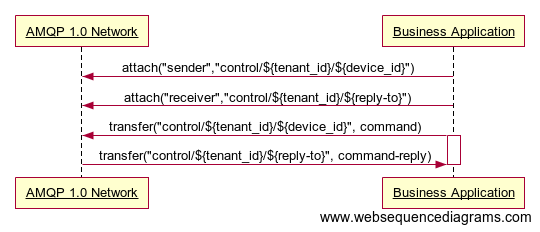
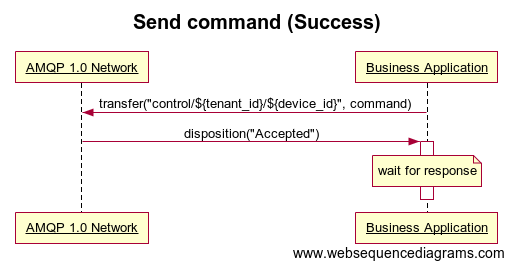
[#808] Specify notification commands as message exchange pattern.
Additionally, the handling of outcomes of a transfer is specified for
commands as well.

diff --git a/site/content/api/Command-And-Control-API.md b/site/content/api/Command-And-Control-API.md
@@ -3,12 +3,17 @@ title = "Command & Control API"
 weight = 415
 +++
 
-The *Command and Control* API is used by *Business Applications* to send commands to devices connected to Hono. Command messages can be used to
-execute operations on devices, e.g. updating a configuration property, installing a software component or activating an actuator.
+The *Command and Control* API is used by *Business Applications* to send **command** or **notification command** messages to devices connected to Hono. 
+
+Command messages can be used to execute operations on devices, e.g. updating a configuration property, installing a software component or activating an actuator.
+Commands are bidirectional, i.e. a device receiving a command is expected to send a response to it.
+
+Notification command messages are unidirectional and cannot be responded.
 <!--more-->
 
 {{% note %}}
 This API has been added in Hono 0.6. Previous versions do not support nor implement the Command & Control API.
+The notification commands will be added during the development of Hono 0.8.
 {{% /note %}}
 
 The Command & Control API is defined by means of AMQP 1.0 message exchanges, i.e. a client needs to connect to Hono using AMQP 1.0 in order to invoke operations of the API as described in the following sections. Throughout the remainder of this page we will simply use AMQP when referring to AMQP 1.0.
@@ -16,25 +21,111 @@ The Command & Control API is defined by means of AMQP 1.0 message exchanges, i.e
 There is also a description of Command & Control [at the conceptual level]({{< relref "/concepts/command-and-control.md" >}}) 
 and the [Getting Started]({{< ref "getting-started" >}}) guide contains a walk through example.
 
+# Preconditions
+## Preconditions for sending a command or notification command
+
+1. The *Business Application* has established an AMQP connection with the AMQP 1.0 Network.  
+2. The *Business Application* has established an AMQP link in role *sender* with the target address `control/${tenant_id}/${device_id}`, where `${device_id}` is the ID of the device to send messages to and `${tenant_id}` is the ID of the tenant that the device belongs to.
+
+**Link establishment**
+
+The following sequence diagram shows the necessary links that need to be established:
+
+![Send Command Preconditions](../command_control_send_preconditions.png)
+
+## Preconditions for receiving a command response
+
+*Command* messages (in contrast to *notification command* messages) need to be responded by the device. For this purpose,
+the *Business Application* needs to open a receiver link as precondition: 
+
+1. The *Business Application* has established an AMQP link in role *receiver* with the source address `control/${tenant_id}/${reply-id}`.
+This link is used by the *Business Application* to receive the response of the executed command. This link’s source address is also referred to as `the reply-to address` for the request messages. 
+2. The `${reply-id}` may be any arbitrary string chosen by the client.  
+
+To scope a response to the device the `${reply-id}` should consist of the device-id plus an arbitrary string to scope the command sender instance. If all responses shall be received just in the context of the tenant, the device-id has to be omitted.   
+
+**Link establishment**
+
+The following sequence diagram shows the necessary links that need to be established to enable sending back a response to the Business Application:
+
+![Send Command](../command_control_receive_preconditions.png)
+
+# Outcomes for sending a command or notification command
+Commands and notification commands that are forwarded by the AMQP 1.0 network to a protocol adapter need to be responded with following outcomes:
+
+| Processing in protocol adapter   | AMQP outcome                  |
+|----------------------------------|------------------------------ |
+| Bad command                      | Rejected ("hono:bad-request") |
+| Device not connected (anymore)   | Release                       | 
+| Command delivered                | Accepted                      | 
+
+For any outcome except for `Accepted` the *Business application* should immediately close the response receiver link again, 
+if it was scoped to exactly one command response. If the receiver link is scoped to the tenant, it usually should remain 
+open.
+
+
 # Operations
 
-The following API defines operations that can be used by *Business Applications* to send commands to devices over an AMQP 1.0 Network and get a response in return.
+The following API defines operations that can be used by *Business Applications* to send commands or notification commands to devices over an AMQP 1.0 Network and get a response in return to a sent command.
+
+## Send a Notification Command
+
+Business Applications use this operation to send a notification command to a device.
+
+A notification command cannot be responded by the device so the result of this operation is purely based on the outcome of sending
+it to the AMQP 1.0 network (see [Outcomes]({{< relref "#outcomes-for-sending-a-command-or-notification-command">}})).
+ 
+Note that the outcome is usually determined by the receiving protocol adapter, which is omitted here for simplicity.
+
+To send a notification command to a device, the first precondition needs to be fulfilled.
+
+The following sequence diagram shows the message flow with a successful outcome:
+
+![Send Notification Command successful outcome](../command_control_notification_Success.png)
+
+The following sequence diagram shows the message flow with an unsuccessful outcome:
+
+![Send Notification Command unsuccessful outcome](../command_control_notification_Unsuccessful_outcome.png)
+
+**Message Format**
+
+The following table provides an overview of the properties the *Business Application* needs to set on a notification command message.
+
+| Name             | Mandatory | Location                 | Type         | Description |
+| :--------------- | :-------: | :----------------------- | :----------- | :---------- |
+| *subject*        | yes       | *properties*             | *string*     | MUST contain the notification command name to be executed by a device. |
+| *content-type*   | no        | *properties*             | *string*     | If present, MUST contain a *Media Type* as defined by [RFC 2046](https://tools.ietf.org/html/rfc2046) which describes the semantics and format of the command's input data contained in the message payload. However, not all protocol adapters will support this property as not all transport protocols provide means to convey this information, e.g. MQTT 3.1.1 has no notion of message headers. |
+| *message-id*     | yes       | *properties*             | *string*     | MUST contain an identifier that uniquely identifies the message at the sender side. |
+
+The following property must **NOT** be set for a notification command message (to distinguish it from a command message):
+
+| Name             | Mandatory       | Location                 | Type         |
+| :--------------- | :---------------| :----------------------- | :----------- |
+| *reply-to*       | must NOT be set | *properties*             | *string*     |
+
+
+A notification command message MAY contain arbitrary payload to be sent to the device in an AMQP Data section. The value of the notification command message's *subject* value may provide a hint to the device regarding the format, encoding and semantics of the payload data.
+
+
+
 
 ## Send a Command
 
-### Preconditions
+Business Applications use this operation to send a command to a device.
+Depending on the outcome of sending the command to the AMQP 1.0 network, the application either expects a response from the device 
+(to the response receiver link) or closes the receiver link again.
 
-1. *Business Application* has established an AMQP connection with the AMQP 1.0 Network.  
-2. *Business Application* has established an AMQP link in role *sender* with the target address `control/${tenant_id}/${device_id}`. Where `${device_id}` is the ID of the device to send messages to and `${tenant_id}` is the ID of the tenant that the device belongs to.
-3. *Business Application* has established an AMQP link in role *receiver* with the source address `control/${tenant_id}/${reply-id}`. Where `${reply-id}` may be any arbitrary string chosen by the client. This link is used by the client to receive the response of the executed command. This link’s source address is also referred to as the reply-to address for the request messages. 
+Note that the outcome is usually determined by the receiving protocol adapter, which is omitted here for simplicity.
 
-To scope each response to the device the `${reply-id}` could consist of the device-id plus an arbitrary string to scope the command sender instance. If all responses should be received just in the context of the tenant, the device-id could be omitted.   
+To send a command to a device, both preconditions need to be fulfilled.
 
-**Link establishment and Message Flow**
+The following sequence diagram shows the message flow with a successful outcome:
 
-The following sequence diagram shows the whole message exchange including the response being sent back to the Business Application.
+![Send Command successful outcome](../command_control_Success.png)
 
-![Send Command](../command_control_Success.png)
+The following sequence diagram shows the message flow with an unsuccessful outcome:
+
+![Send Command unsuccessful outcome](../command_control_Unsuccessful_outcome.png)
 
 **Message Format**
 
@@ -55,6 +146,10 @@ A command message MAY contain arbitrary payload to be sent to the device in an A
 After execution of a command on a device, the device MUST send a response message indicating the outcome of executing the command.
 
 **Message Format**
+
+The following sequence diagram shows the message flow of a command response with a successful outcome:
+
+![Send Command response successful](../command_control_response_Success.png)
 
 The following table provides an overview of the properties set on a Command's response message.
 
